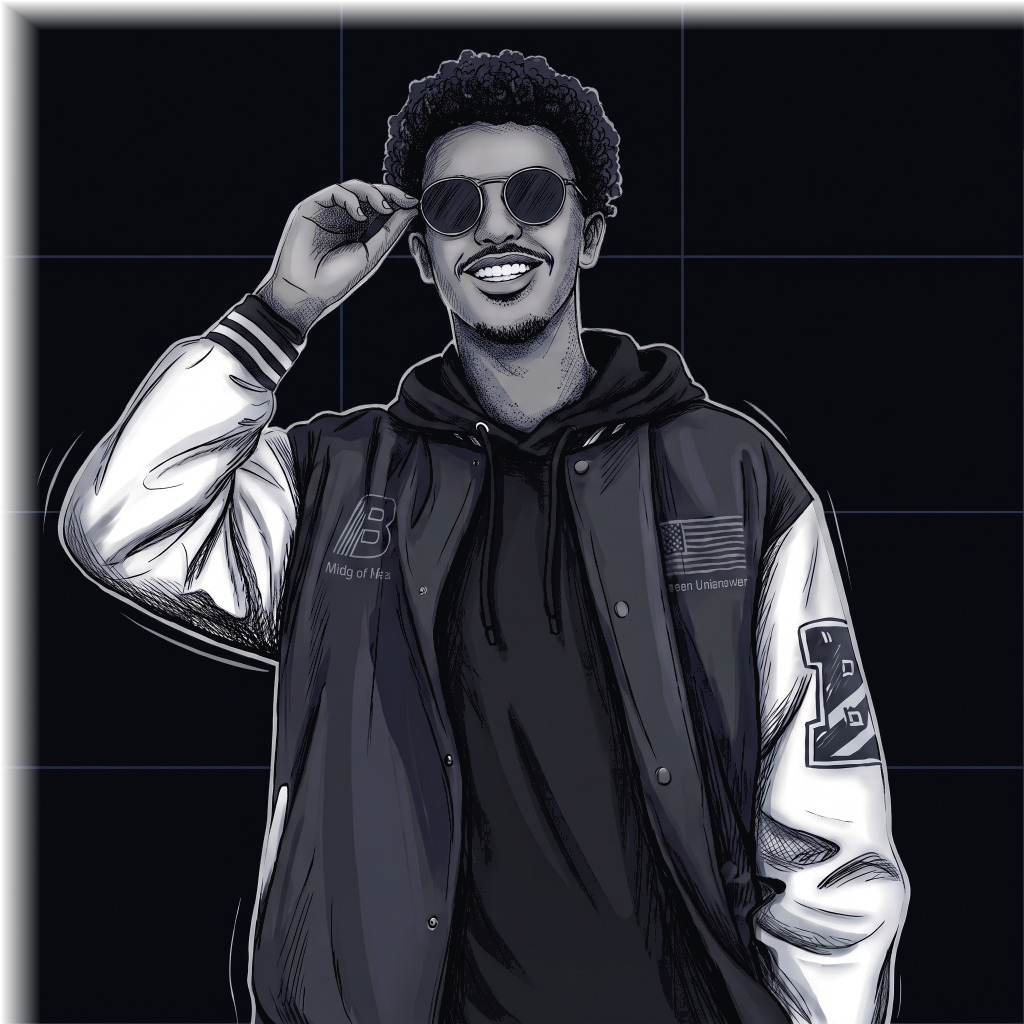
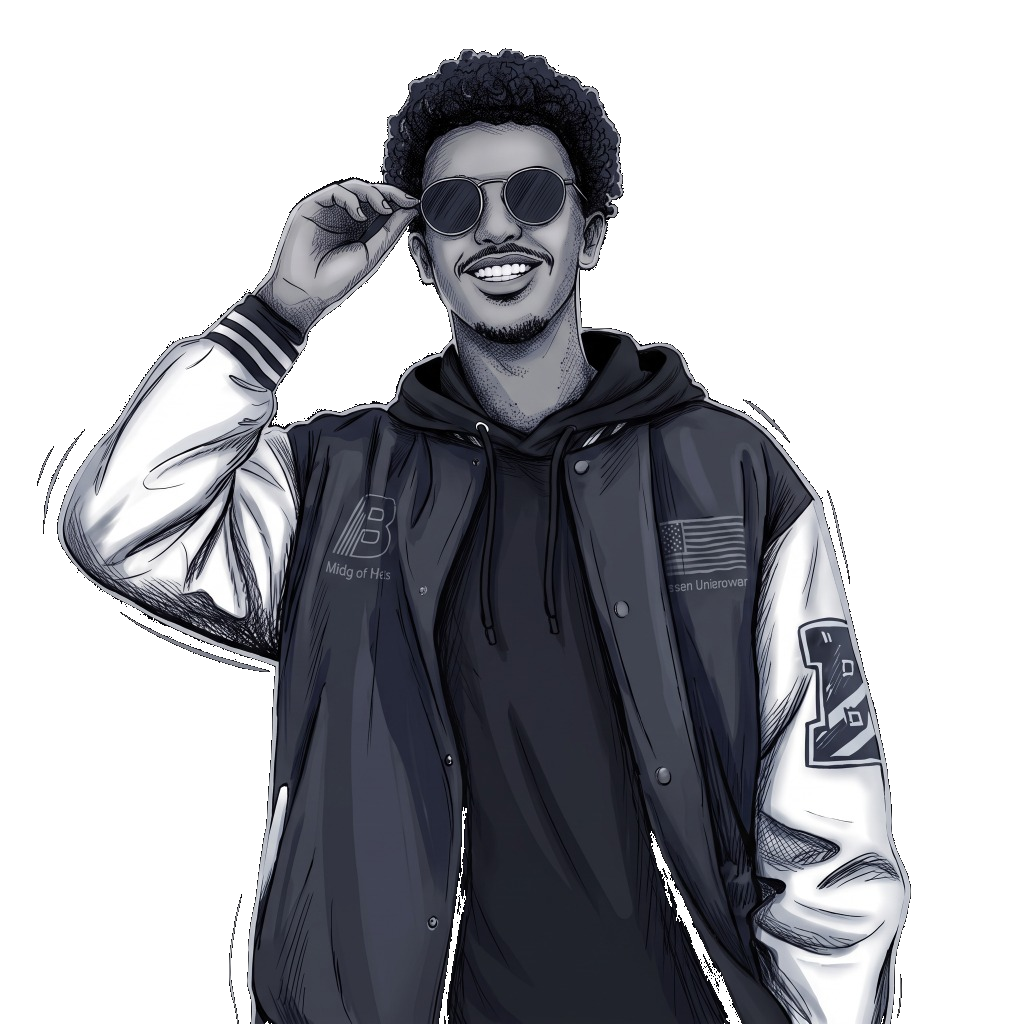
hero

diff --git a/src/components/HeroSection.tsx b/src/components/HeroSection.tsx
@@ -7,12 +7,30 @@ export default function HeroSection() {
   return (
     <section
       id="hero-section"
-      className="relative flex w-full flex-col items-center gap-10 overflow-hidden px-6 pt-24 pb-12 sm:px-10 sm:pt-28 lg:gap-14"
+      className="relative flex w-full flex-col items-center gap-10 overflow-hidden px-6 pt-24 pb-12 sm:px-10 sm:pt-28 lg:gap-14 bg-[#070a12]"
     >
+      {/* Dark navy architectural grid - subtle and deeper */}
+      <div
+        aria-hidden="true"
+        className="pointer-events-none absolute inset-0 z-0 bg-[linear-gradient(to_right,rgba(46,65,130,0.08)_1px,transparent_1px),linear-gradient(to_bottom,rgba(46,65,130,0.08)_1px,transparent_1px)] bg-[size:110px_110px] [mask-image:radial-gradient(ellipse_110%_90%_at_50%_35%,#000_65%,transparent_100%)]"
+      />
+
+      {/* Atmospheric subtle deep midnight wash on the right behind hero figure */}
+      <div
+        aria-hidden="true"
+        className="pointer-events-none absolute right-0 top-1/4 h-[550px] w-[650px] rounded-full bg-gradient-to-bl from-[#121c42]/20 via-[#0a1028]/15 to-transparent blur-3xl opacity-60 z-0"
+      />
+
+      {/* Smooth transitional gradient fade at bottom into global #080808 background */}
+      <div
+        aria-hidden="true"
+        className="pointer-events-none absolute bottom-0 inset-x-0 h-40 bg-gradient-to-t from-[#080808] to-transparent z-0"
+      />
+
       {/* Laser streak lines */}
       <div
         aria-hidden="true"
-        className="pointer-events-none absolute top-0 left-1/2 h-[150px] w-[840px] max-w-full -translate-x-1/2 overflow-hidden opacity-50"
+        className="pointer-events-none absolute top-0 left-1/2 h-[150px] w-[840px] max-w-full -translate-x-1/2 overflow-hidden opacity-50 z-0"
       >
         <span className="absolute h-px w-[120px] top-[14px] left-[10px] bg-gradient-to-r from-transparent via-[#2e3794]/60 to-transparent" />
         <span className="absolute h-px w-[140px] top-[52px] right-[40px] bg-gradient-to-r from-transparent via-[#2e3794]/50 to-transparent" />
